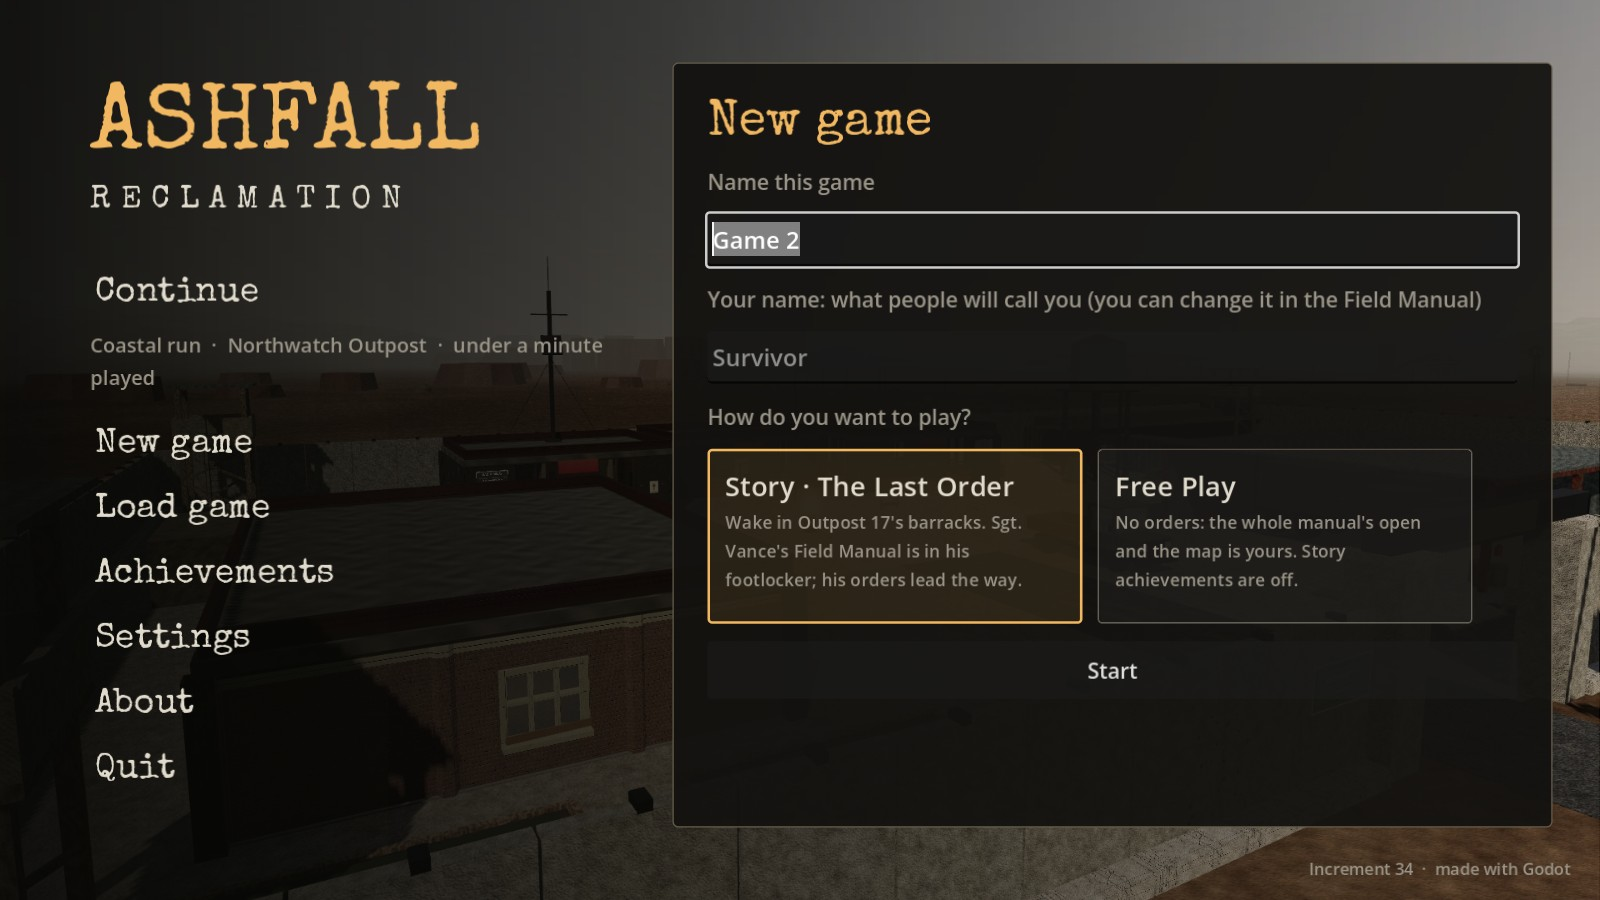
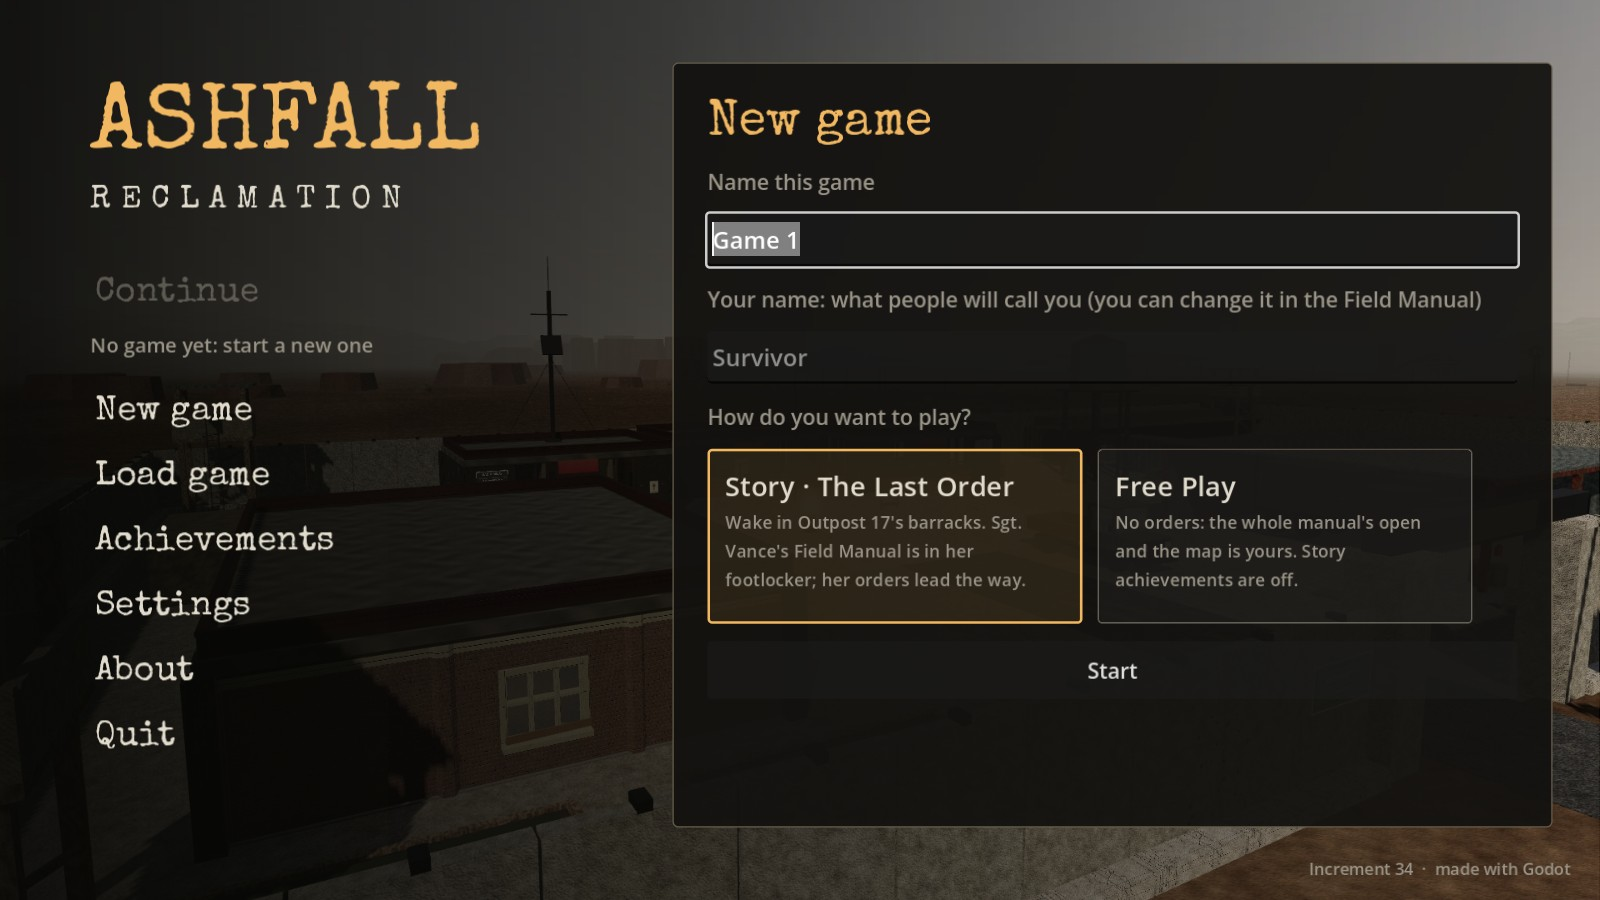
Increment 34: guide status, New game screenshot
Claude-Session: https://claude.ai/code/session_01FKpU3AUbbc6yXuwthbFHAw

Changed region(s): [[0.0625, 0.3733, 0.375, 0.8711], [0.5312, 0.6222, 0.6562, 0.6533], [0.0625, 0.3111, 0.1562, 0.3422]]

diff --git a/docs/increments/34_orders_and_achievements.md b/docs/increments/34_orders_and_achievements.md
@@ -1,6 +1,6 @@
 # Increment 34: orders and achievements, Story or Free Play
 
-**Status:** in testing, 26 Nov 2026. Built from the approved proofs (Story: *The Last Order*; orders with no item rewards and a compass marker only for the order you track; 33 achievements; Free Play opens every chapter of the manual, with no orders and no story achievements).
+**Status:** done, 26 Nov 2026. 610 tests: 609 passed in the full run. The other was an old test of the *"You only have a machete…"* line, which now shows only in Free Play; it's updated and passes. Built from the approved proofs (Story: *The Last Order*; orders with no item rewards and a compass marker only for the order you track; 33 achievements; Free Play opens every chapter of the manual, with no orders and no story achievements).
 
 ## Story or Free Play
 
@@ -124,6 +124,7 @@ In a real window:
   - what you do;
   - Free Play has no story ones;
   - the game's card and the menu.
+- **Changed:** `test_gun_crafting.gd`'s first-minutes hint test now checks Story (no hint, the orders lead) and Free Play (the hint).
 
 ## Next
 
